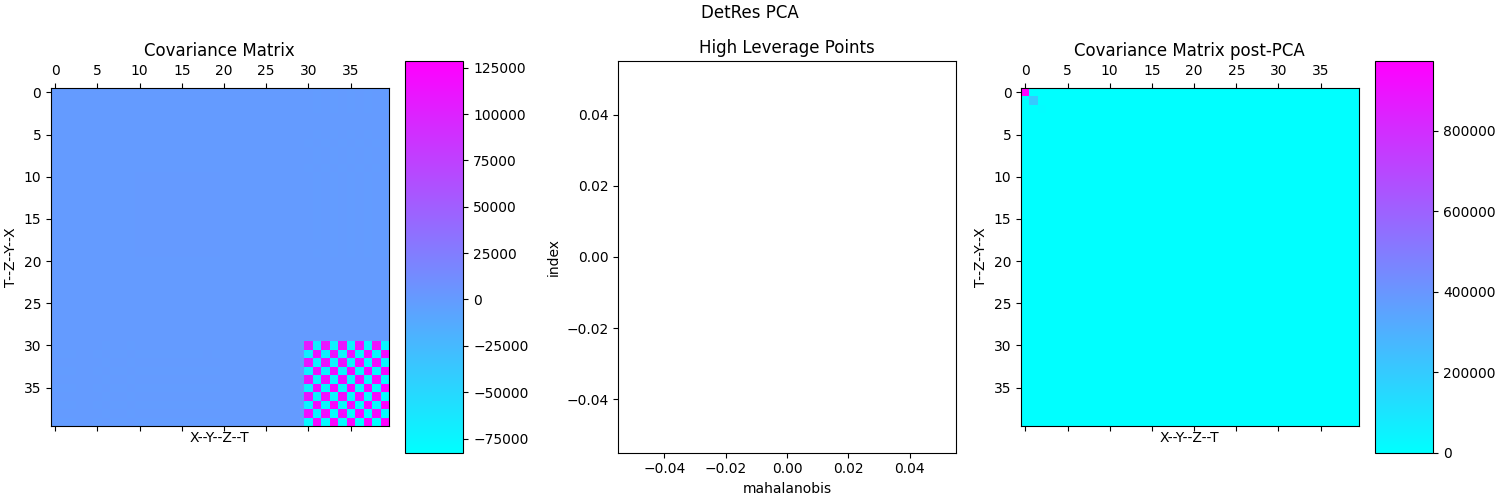
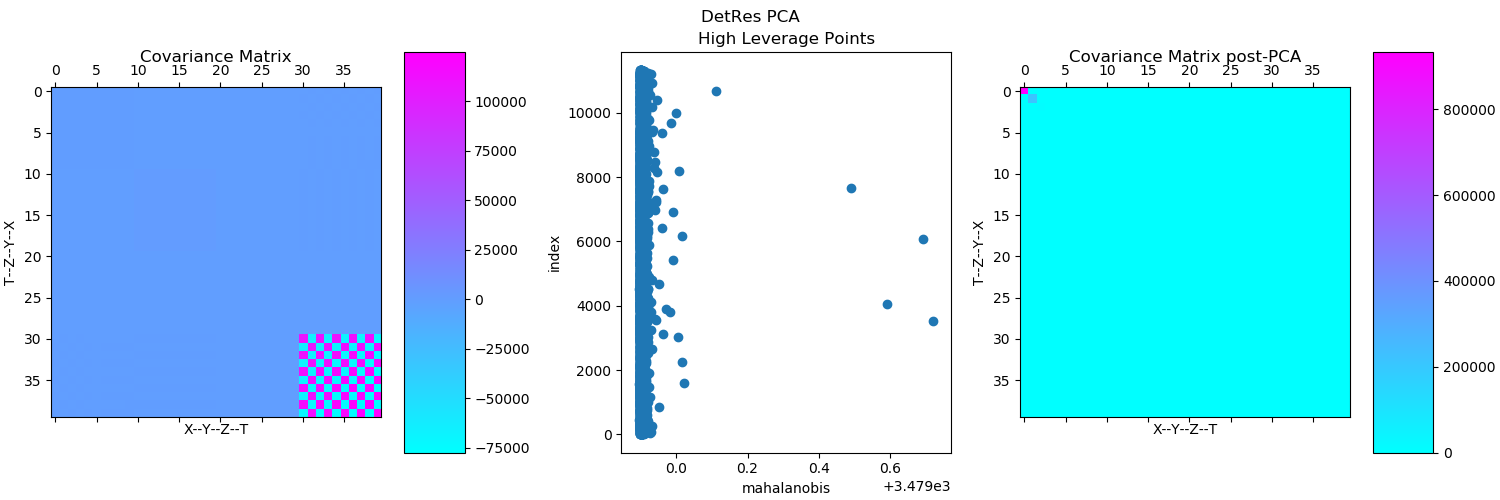
PCA no-standardize

diff --git a/analyze.py b/analyze.py
@@ -5,7 +5,7 @@ import os
 import io
 os.environ['MPLCONFIGDIR'] = "/home/Desktop/mplib/graph"
 import matplotlib
-#matplotlib.use('AGG')
+matplotlib.use('AGG')
 ##matplotlib.use('Qt5Agg')
 import matplotlib.pyplot as plt
 import matplotlib.colors as mpt_col
@@ -37,7 +37,7 @@ else:
 	MaxEventLimit = True
 #------------------------------------------------------------------------------------
 #MaxEventLimit = True #manual override
-MaxEvents = 300#int(input("Number of Events:"))
+MaxEvents = 12000#int(input("Number of Events:"))
 #--------------------------
 #Defining Flags:
 STRIPHIST = False
@@ -62,7 +62,7 @@ warmstart=True # warmstart the CNN
 #---KNN
 KNN = True #using KNN OR CNN ? 
 MLOPT = ["PCA","STD"] #options "PCA" "STD" (note STD requires PCA)
-KVIS = "RUNONE" #options "RUNONE" "RUN" "OPTNUM" "ERR" "VIS" "False" #nearest neighbor output visualization?
+KVIS = "RUN" #options "RUNONE" "RUN" "OPTNUM" "ERR" "VIS" "False" #nearest neighbor output visualization?
 knn_neighbors = 4 #set value
 #---------------
 POSRES = False

diff --git a/tools/ML/ML_PCA.py b/tools/ML/ML_PCA.py
@@ -16,7 +16,7 @@ meaninput[(2*d):(3*d)] = (meaninput[2*d] + meaninput[3*d])/2
 stdinput[(2*d):(3*d)] = meaninput[(2*d):(3*d)]
 #----
 if(pcaSTD):
-    standardinput = (flatinput)
+    standardinput = (flatinput-meaninput)
 else:
     standardinput = (flatinput-meaninput)/stdinput
 #covariance --------------------------------------------------------

diff --git a/tools/ML/ML_detRes_KNN.py b/tools/ML/ML_detRes_KNN.py
@@ -32,9 +32,9 @@ if("PCA" in MLOPT):
 length = inputTensor.shape[0]
 frac = 0.75
 splitList = [int(length*frac),length - int(length*frac)]
-initK = 5#4
-finalK = 6#80
-stepK = 1
+initK = 2#4
+finalK = 40#80
+stepK = 5
 veclen = int((finalK+stepK-initK)/stepK)
 #n = int(length/folds)
 epochs = 5
